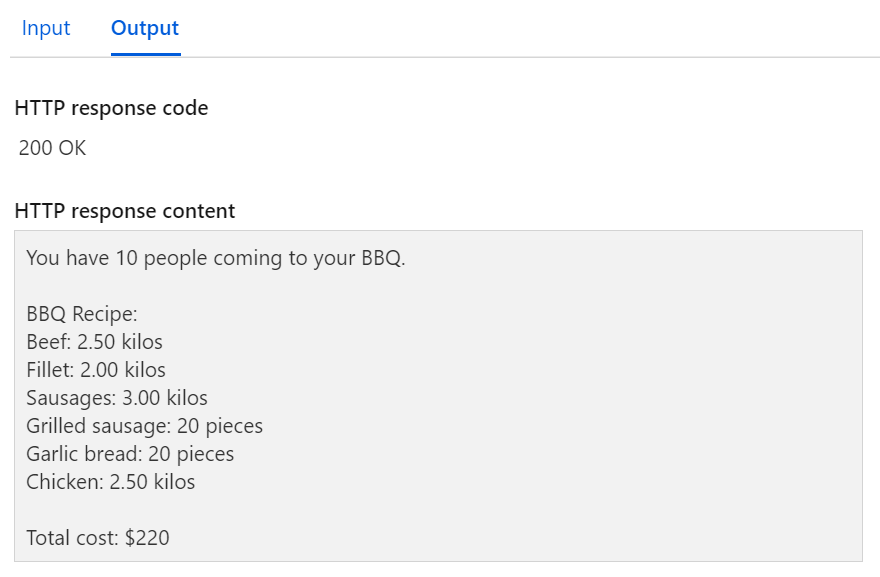
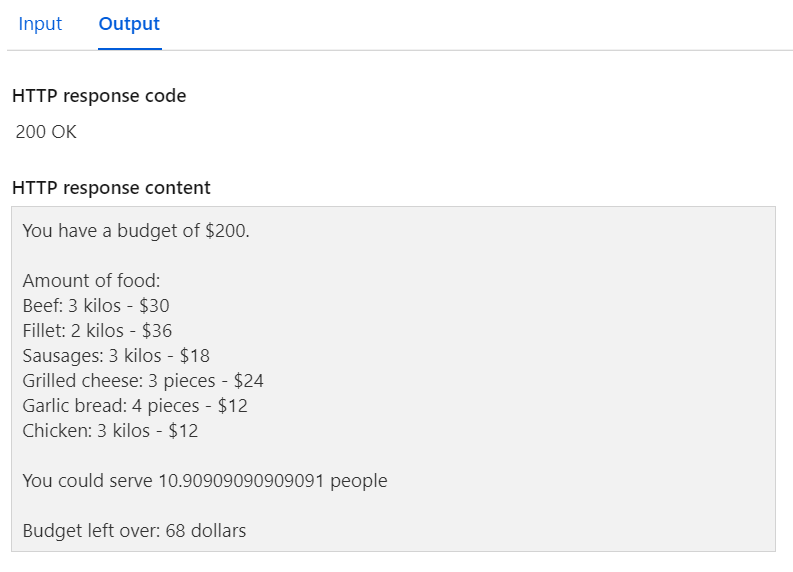
Solved challenge 4

diff --git a/bestBBQ/index.js b/bestBBQ/index.js
@@ -2,23 +2,56 @@ module.exports = async function (context, req) {
     context.log('JavaScript HTTP trigger function processed a request.');
 
     const budget = (req.query.budget || (req.body && req.body.budget));
+
+    const beefKilos = parseFloat(req.query.beefKilos || (req.body && req.body.beefKilos));
+    const filletKilos = parseFloat(req.query.filletKilos || (req.body && req.body.filletKilos));
+    const sausagesKilos = parseFloat(req.query.sausagesKilos || (req.body && req.body.sausagesKilos));
+    const grilledCheesePieces = parseFloat(req.query.grilledCheesePieces || (req.body && req.body.grilledCheesePieces));
+    const garlicBreadPieces = parseFloat(req.query.garlicBreadPieces || (req.body && req.body.garlicBreadPieces));
+    const chickenKilos = parseFloat(req.query.chickenKilos || (req.body && req.body.chickenKilos));
+
+    const beefPrice = parseFloat(req.query.beefPrice || (req.body && req.body.beefPrice));
+    const filletPrice = parseFloat(req.query.filletPrice || (req.body && req.body.filletPrice));
+    const sausagesPrice = parseFloat(req.query.sausagesPrice || (req.body && req.body.sausagesPrice));
+    const grilledCheesePrice = parseFloat(req.query.grilledCheesePrice || (req.body && req.body.grilledCheesePrice));
+    const garlicBreadPrice = parseFloat(req.query.garlicBreadPrice || (req.body && req.body.garlicBreadPrice));
+    const chickenPrice = parseFloat(req.query.chickenPrice || (req.body && req.body.chickenPrice));
+
+
+    if (!budget) {
+        context.res = {
+            status: 400,
+            body: "Parameter budget is required."
+        };
+
+        return;
+    }
+
+    // We are assuming the average guest will consume 1 kilo of meet and 0.65 peices of grilled cheese and garlic bread
+
+    totalFood = beefKilos + filletKilos + sausagesKilos + grilledCheesePieces + garlicBreadPieces + chickenKilos;
+
+    const budgetReport = beefPrice + filletPrice + sausagesPrice + grilledCheesePrice + garlicBreadPrice + chickenPrice;
+
     const responseMessage = budget
+
         ? `You have a budget of $${budget}.
-        
-Number of people you can invite: ${(budget / 22).toFixed()}
 
-BBQ Recipe:
-Beef: ${((budget / 22).toFixed() * 0.25).toFixed(2)} kilos
-Fillet: ${((budget / 22).toFixed() * 0.2).toFixed(2)} kilos
-Sausages: ${((budget / 22).toFixed() * 0.3).toFixed(2)} kilos
-Grilled sausage: ${((budget / 22).toFixed() * 2)} pieces
-Garlic bread: ${((budget / 22).toFixed() * 2)} pieces
-Chicken: ${((budget / 22).toFixed() * 0.25).toFixed(2)} kilos
+Amount of food:
+Beef: ${(beefKilos)} kilos - $${(beefPrice)}
+Fillet: ${(filletKilos)} kilos - $${(filletPrice)}
+Sausages: ${(sausagesKilos)} kilos - $${(sausagesPrice)}
+Grilled cheese: ${(grilledCheesePieces)} pieces - $${(grilledCheesePrice)}
+Garlic bread: ${(garlicBreadPieces)} pieces - $${(garlicBreadPrice)}
+Chicken: ${(chickenKilos)} kilos - $${(chickenPrice)}
 
+You could serve ${(totalFood / 1.65).toFixed()} people
+
+Budget left over: ${(budget - budgetReport)} dollars
 `
 
         :
-        "Please input the number of people attending your BBQ!";
+        "Please input your BBQ budget!";
 
     context.res = {
         // status: 200, /* Defaults to 200 */
